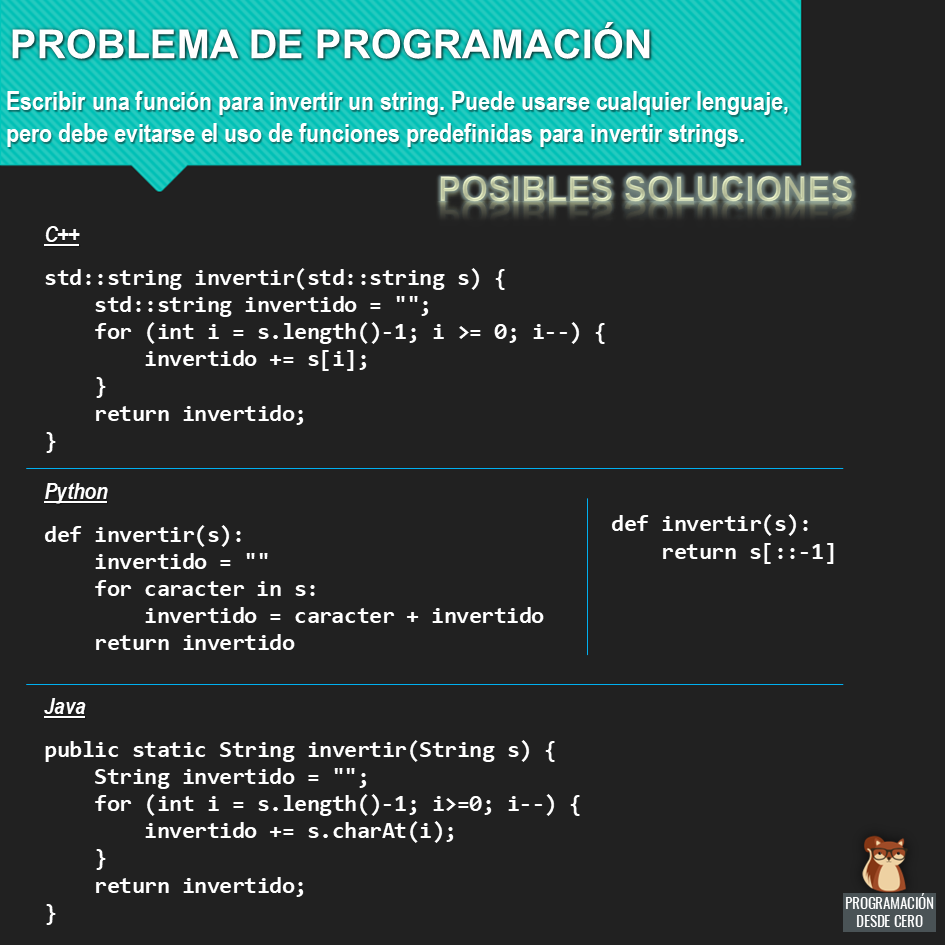
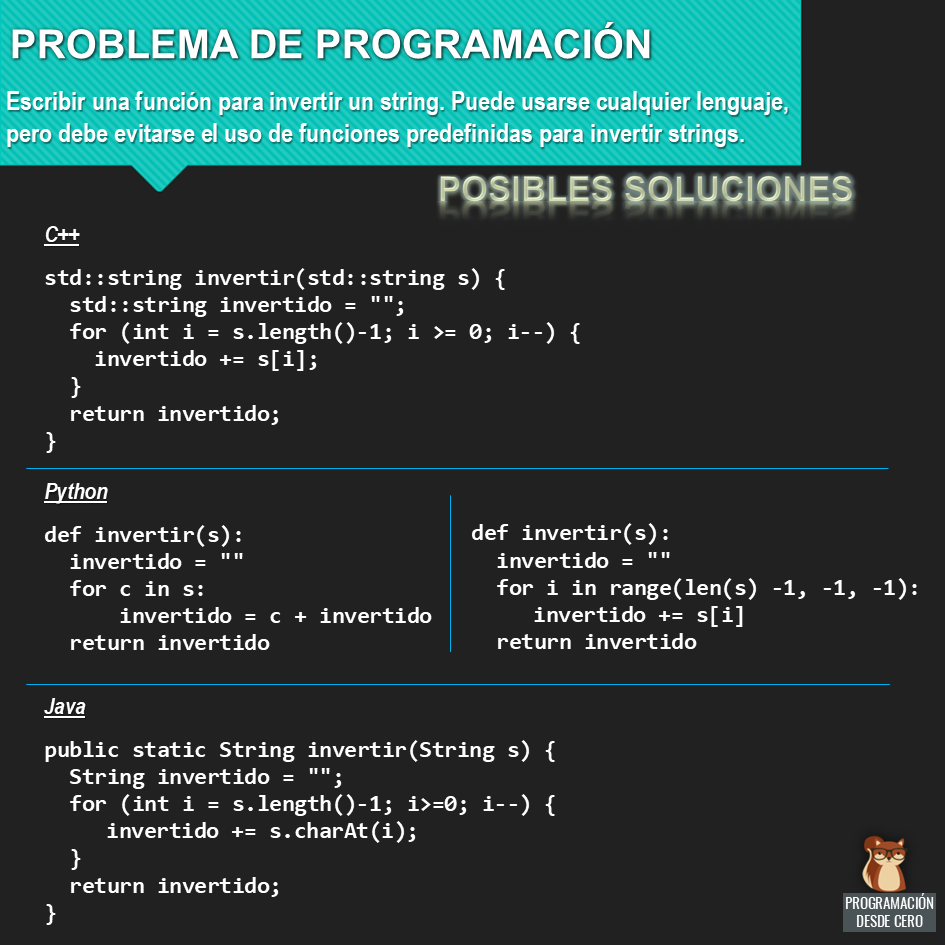
Add programming problem and solutions for string inversion; update related image

diff --git a/_posts/2019-09-03-problema-entrevista-strings.md b/_posts/2019-09-03-problema-entrevista-strings.md
@@ -9,7 +9,65 @@ published: true
 
 Una pregunta que puede aparecer en una entrevista laboral para el puesto de desarrollador, y algunas respuestas (aunque no las únicas) posibles.
 
+Un detalle a tener en cuenta es que, en Java, concatenar cadenas en un bucle con `+=` no es eficiente para textos largos, porque cada concatenación crea un nuevo objeto String (las cadenas son inmutables). Para código de producción se suele usar StringBuilder. Pero para un ejercicio como este, la concatenación con `+=` suele ser suficiente.
+
 ▶ [Video: strings en Python](https://www.youtube.com/watch?v=xAigyL6Lz2s){:target="_blank"}
 
 ![Problema de entrevista laboral]({{ site.url }}/assets/2019-09-03-problema-entrevista-strings.png)
 
+&nbsp;
+
+{% include accesibilidad.html %}
+PROBLEMA DE PROGRAMACIÓN
+
+Escribir una función para invertir un string. Puede usarse cualquier lenguaje, pero debe evitarse el uso de funciones predefinidas para invertir strings.
+
+ALGUNAS POSIBLES SOLUCIONES:
+
+Solución en C++:
+
+```cpp
+std::string invertir(std::string s) {
+    std::string invertido = "";
+    for (int i = s.length()-1; i >= 0; i--) {
+        invertido += s[i];
+    }
+    return invertido;
+}
+```
+
+Solución 1 en Python:
+
+```python
+def invertir(s):
+    invertido = ""
+    for c in s:
+        invertido = c + invertido
+    return invertido
+```
+
+Solución 2 en Python:
+
+```python
+def invertir(s):
+  invertido = ""
+  for i in range(len(s) -1, -1, -1):
+     invertido += s[i]
+  return invertido
+```
+
+Solución en Java:
+
+```java
+public static String invertir(String s) {
+  String invertido = "";
+  for (int i = s.length()-1; i>=0; i--) {
+     invertido += s.charAt(i);
+  }
+  return invertido;
+}
+```
+
+</div></details>
+
+&nbsp;
